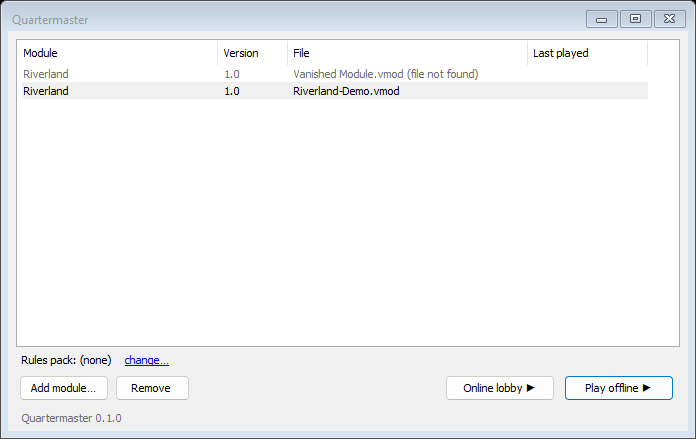
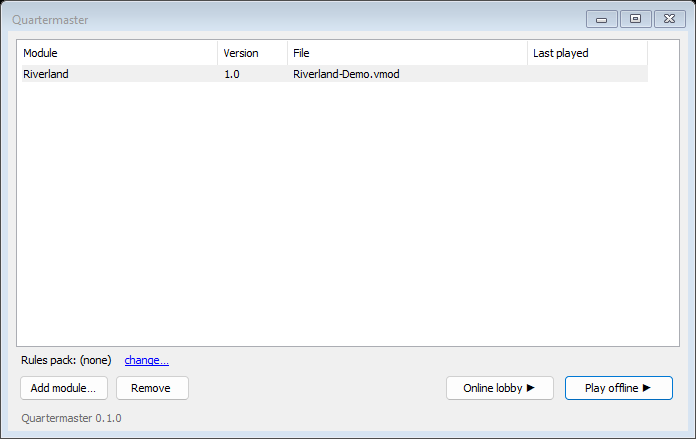
Wiki final fixes: fresh shots, FAQ, wording, follow-ups

Changed region(s): [[0.4224, 0.1481, 0.694, 0.2369], [0.0302, 0.1481, 0.1207, 0.2369], [0.3017, 0.1481, 0.3621, 0.1777]]

diff --git a/src/Quartermaster.App/LauncherShots.cs b/src/Quartermaster.App/LauncherShots.cs
@@ -25,16 +25,11 @@ static class LauncherShots
         }
     }
 
-    /// <summary>Screenshot fixture: lists the given module plus a copy that is then deleted (shown as missing); for the offline window also writes an autosave and a recent save.</summary>
+    /// <summary>Screenshot fixture: lists the given module; for the offline window also writes an autosave and a recent save.</summary>
     static void Seed(SettingsStore store, string root, string modulePath, bool withGames)
     {
         var lib = new ModuleLibrary(store);
         lib.Add(modulePath);
-        var gone = Path.Combine(root, "gone", "Vanished Module.vmod");
-        Directory.CreateDirectory(Path.GetDirectoryName(gone)!);
-        File.Copy(modulePath, gone, true);
-        lib.Add(gone);
-        File.Delete(gone);
         Task.Run(() => lib.RefreshAsync(null, CancellationToken.None)).GetAwaiter().GetResult();
         if (!withGames) return;
         var sha = lib.Rows.First(r => !r.Missing).Entry.Sha256!;
@@ -46,7 +41,6 @@ static class LauncherShots
         Directory.CreateDirectory(Path.GetDirectoryName(save)!);
         File.WriteAllText(save, "{}");
         new RecentGames(store, root).Add(sha, save);
-        new RecentGames(store, root).Add(sha, Path.Combine(root, "saves", "Old game.qsave")); // not on disk: shown as not found
     }
 
     /// <summary>--smoke-launcher: the first launcher visit starts a blank new game on the module, the second one checks that it lists a last-played time and ends the app.</summary>

diff --git a/docs/wiki/FAQ.md b/docs/wiki/FAQ.md
@@ -61,6 +61,7 @@ Quartermaster only updates when you click **Update now**, and only when no game 
 - **"The update to … was not installed; nothing was changed. Close every other Quartermaster window and try again, or download it from the release page."** The updater refused before it touched anything, because another copy of Quartermaster was running from the same folder, or the copy has no file list. Close every other window and try again.
 - **"This copy of Quartermaster can't update itself; download the new version from the release page. Open the download page?"** The copy has no file list (`quartermaster-files.txt`), which means it was built from source or is not an unzipped release. Download the release zip and unzip it by hand; your saves and settings are kept.
 - **"Quartermaster can't update itself in this folder. Open the download page?"** The program's folder is not writable (for example under `Program Files`). Download the zip and unzip it into a folder you can write to, such as one in your user folder, then run it from there.
+- **"Quartermaster can't update itself: Quartermaster.Updater.exe is missing from its folder. Open the download page?"** The small helper program that installs updates is not next to Quartermaster.App.exe, usually because only some of the files were copied. Download the release zip again and unpack all of it into the folder.
 - **The download did not pass its checks.** The messages say the download's SHA-256 or size does not match the release, or the zip is not valid. Nothing was installed. Try again; if it keeps happening, download the zip from the release page yourself.
 - **"The update to … didn't start, so Quartermaster went back to …".** The new version did not confirm that it had started, so the updater put the old files back. You are on your previous version and can keep playing. If the message adds "Some files may need a fresh download from the release page", download the zip and unzip it over the folder.
 

diff --git a/docs/wiki/Your-First-Game.md b/docs/wiki/Your-First-Game.md
@@ -55,7 +55,7 @@ Choose **Start game** to begin turn 1.
 
 Drag a counter with the mouse. Drag a selection or a stack and it moves together, keeping its shape. Every move goes into the log under the map. The toolbar's **1d6**, **2d6** and **Dice** buttons roll dice, and each roll is logged too.
 
-In Riverland, moving a unit during North Movement or South Movement (and only then) uses up fuel. The rules pack's "Fuel for movement" formula takes away half the number of hexes moved, multiplied by the weather, rounded up. It only applies to units that have Fuel. What you see depends on the difficulty. On Hardcore and Semi-automatic, a formula dialog opens as soon as you drop the counter, with an empty box for the hexes moved: type the number (or choose Calculate to fill it in from your drag) and choose Apply. On Fully automatic, no dialog appears: the fuel is taken off straight away and the calculation goes into the log. If the weather has not been set yet (the demo rolls it in North Supply), the dialog asks for it.
+In Riverland, moving a unit during North Movement or South Movement (and only then) uses up fuel. The rules pack's "Fuel for movement" formula takes away half the number of hexes moved, multiplied by the weather, rounded up. It only applies to units that have Fuel. What you see depends on the difficulty. On Hardcore and Semi-automatic, a formula dialog opens as soon as you drop the counter, with an empty box for the hexes moved: type the number (or choose Calculate to fill it in from your drag) and choose Apply. On Fully automatic, no dialog appears: the fuel is taken off straight away and the calculation goes into the log. The weather starts at 1 (dry) and the demo rolls it again in North Supply, so the dialog already knows it.
 
 ## Undo and step back
 

diff --git a/docs/wiki/Playing-With-Others.md b/docs/wiki/Playing-With-Others.md
@@ -12,7 +12,7 @@ There are three ways to play with other people:
 
 Players share one computer. Set the players and the sides each one holds on the new game page, or later in Settings, on the Game tab. When the turn passes to another player a hand-over screen hides every window ("Pass to Player 1 (Northern League)") until they press **Continue**. See [Your First Game](Your-First-Game) for the screens.
 
-Each player sees only their own side's secrets. In the Rules Workbench's Visibility tab you mark which properties are private, which organisation displays and maps belong to a side, and which formulas roll their dice in private. Other players see lines such as "Red ledger changed" or "Red rolled dice" in the log, never the numbers. Hot-seat is honour-based: the information is hidden on screen but still in memory.
+Each player sees only their own side's secrets. In the Rules Workbench's Visibility tab you mark which properties are private, which organisation displays and maps belong to a side, and which formulas roll their dice in private. Other players see lines such as "Northern League ledger changed" or "Southern Compact rolled dice" in the log, never the numbers. Hot-seat is honour-based: the information is hidden on screen but still in memory.
 
 ## Live online play
 

diff --git a/docs/superpowers/piece1-followups.md b/docs/superpowers/piece1-followups.md
@@ -343,3 +343,8 @@ Engine notes only. No game content: phase names, order, formulas and warnings ar
 - Update dialog (task 8): see the task 8 review minors: the finishing step can race the launcher closing, a failed check does not stamp `LastUpdateCheckUtc`, and the App has no test project for the dialog.
 - `VersionNotice` sits between the `NotAPlayerText` doc comment and its constant in `TurnReplayModel.cs` (about line 296).
 - Release script: Linux and macOS archives are built on Windows, so the executable bit is not stored; the docs say `chmod +x`. The archive check looks for the literal `C:\Users\<user name>` in binaries only, not for other absolute paths. The script was only run under Windows PowerShell 5.1 here.
+
+## Found while writing the user wiki: parked items
+
+- The module rules/text window shows text with LF-only line endings all on one line (the demo module was changed to CRLF to avoid it); real modules will hit it. The window should normalise line endings.
+- The toolbar "Next turn" button and Tools > Turn > Next turn only step the turn counter, but the shortcut shown next to it, Ctrl+Right, does Next Phase when the pack has phases.
